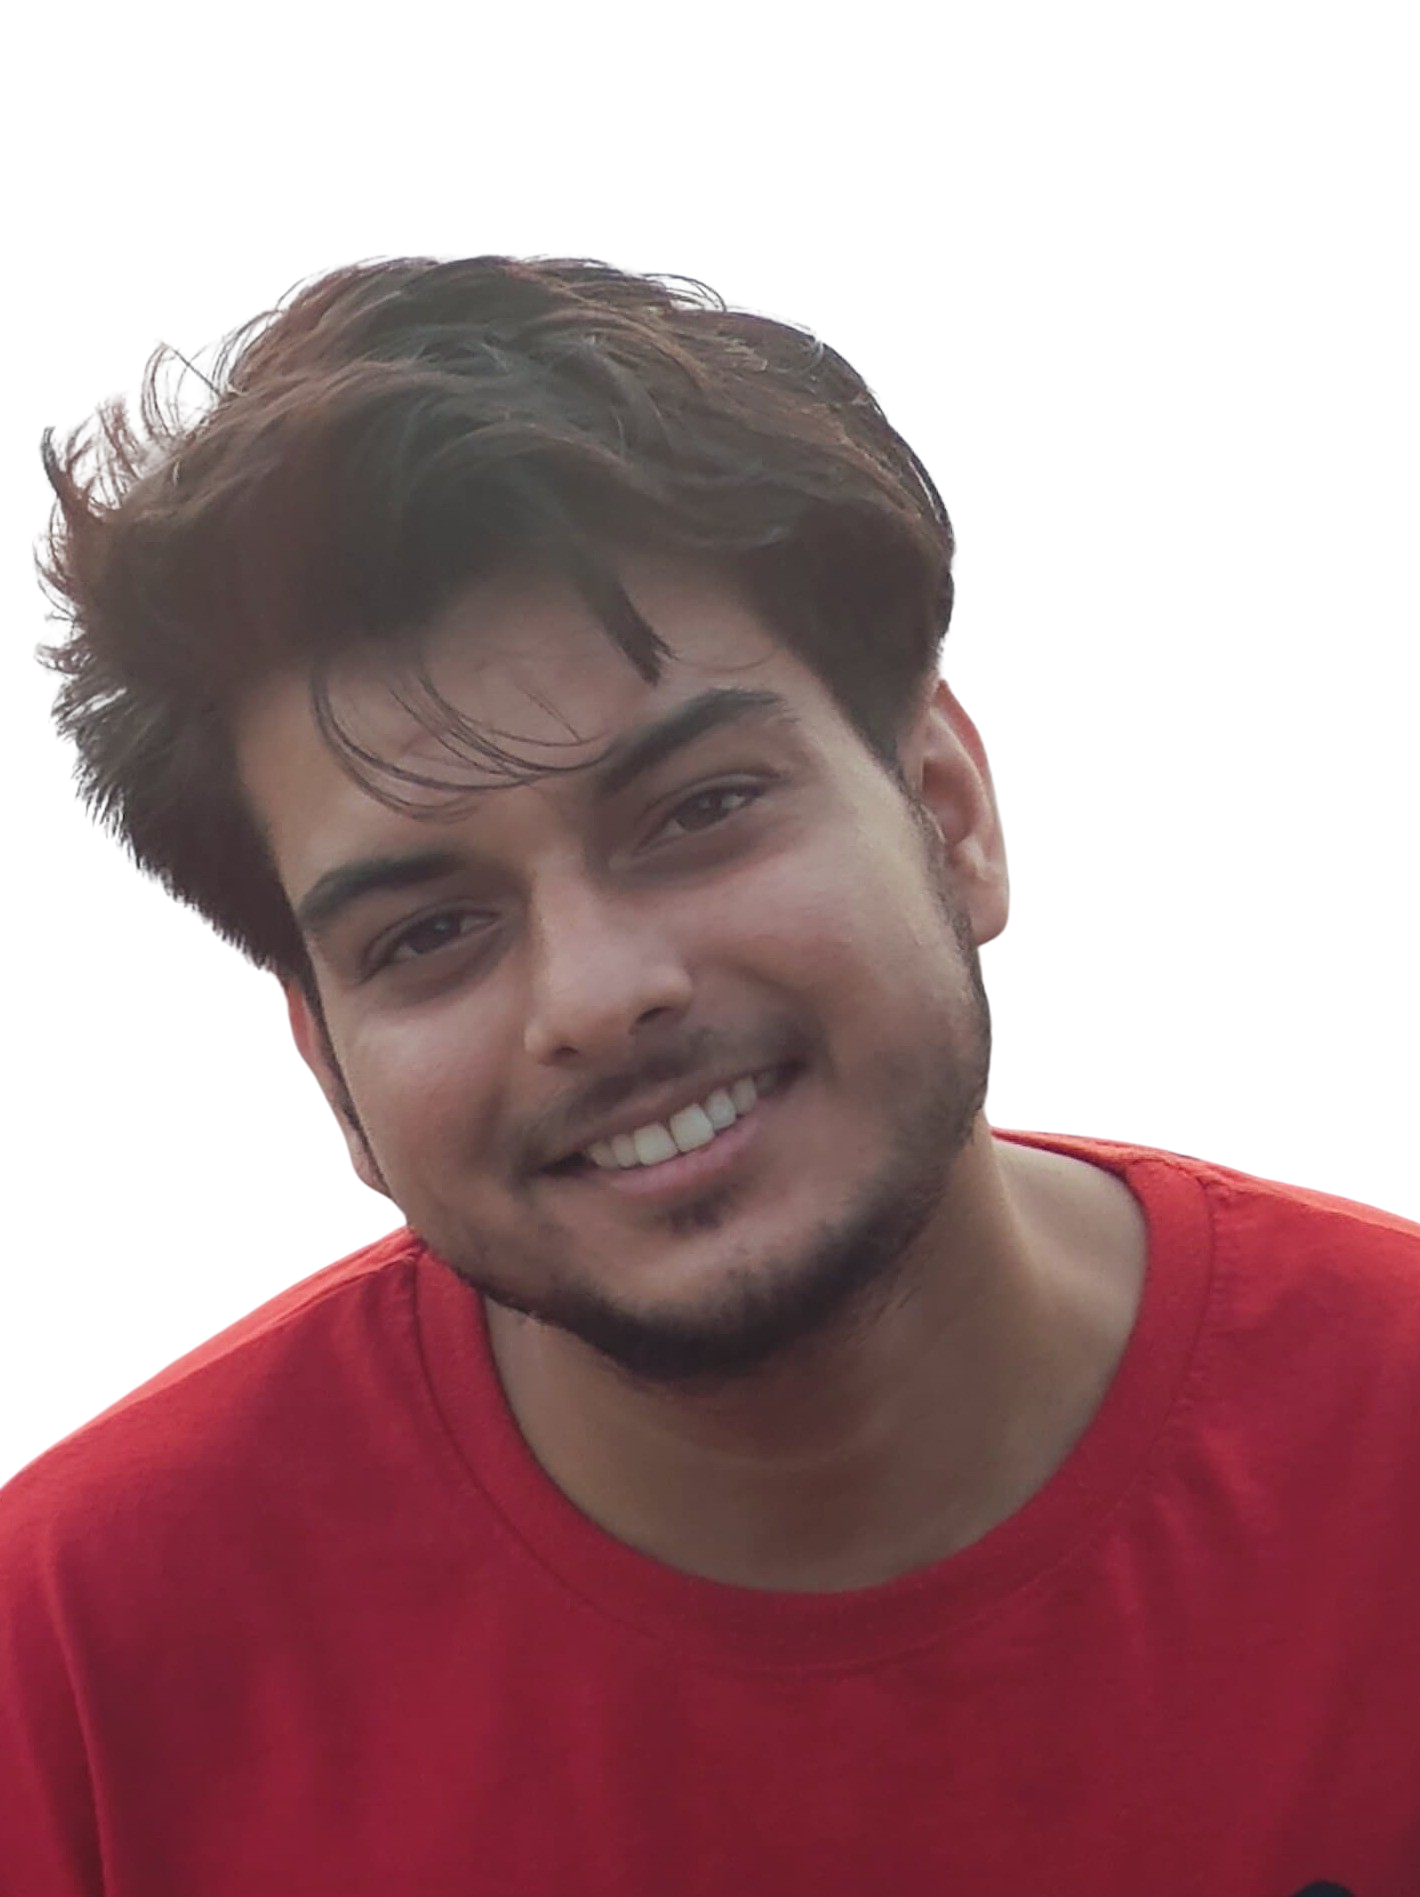
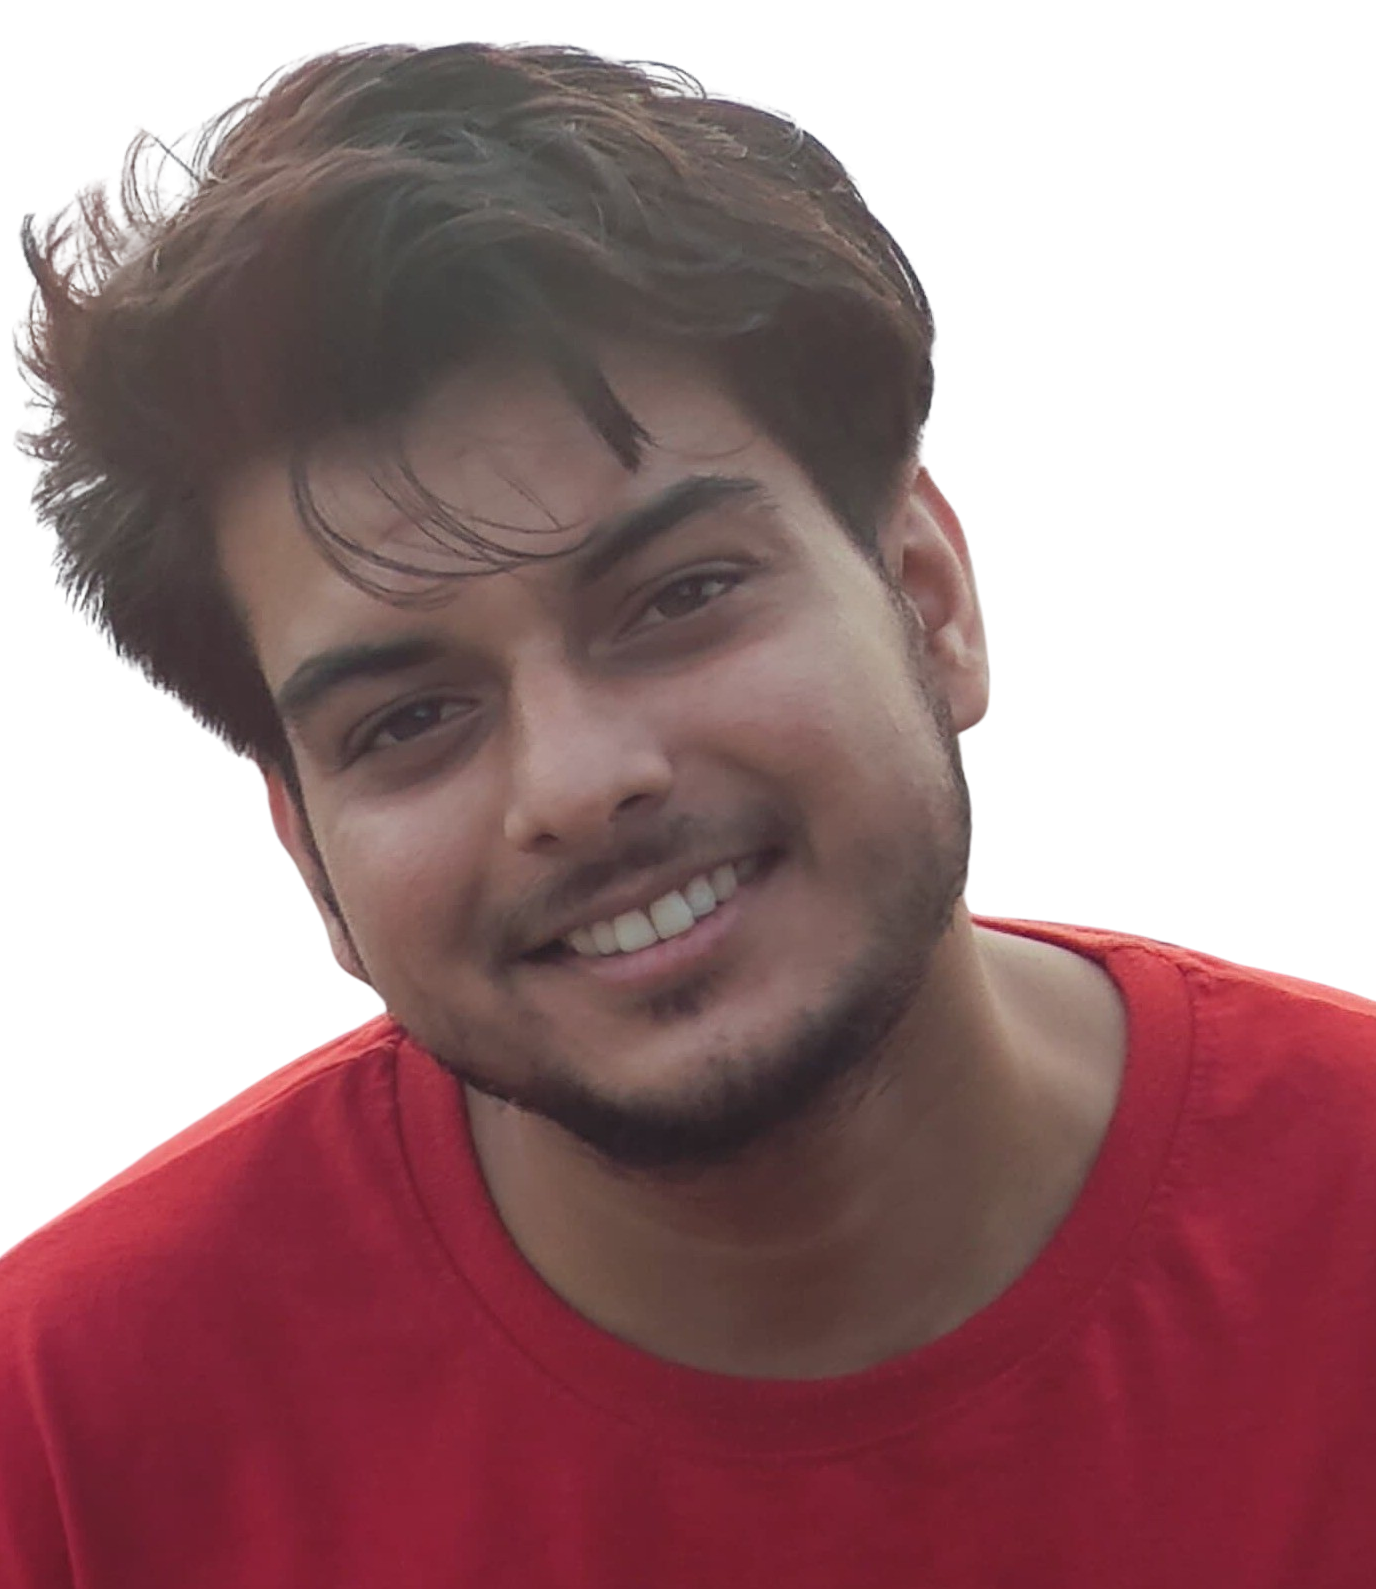
latest

diff --git a/src/components/Home.jsx b/src/components/Home.jsx
@@ -31,7 +31,7 @@ const Home = () => {
         </div>
         <div>
           <img src={HeroImage} alt="my profile"
-          className='rounded-2xl mx-auto w-2/3 md:w-full'/>
+          className='rounded-2xl mx-auto w-2/3 md:w-full' style={{ width: '650px', height: '470px' }}/>
         </div>
       </div>
     </div>
